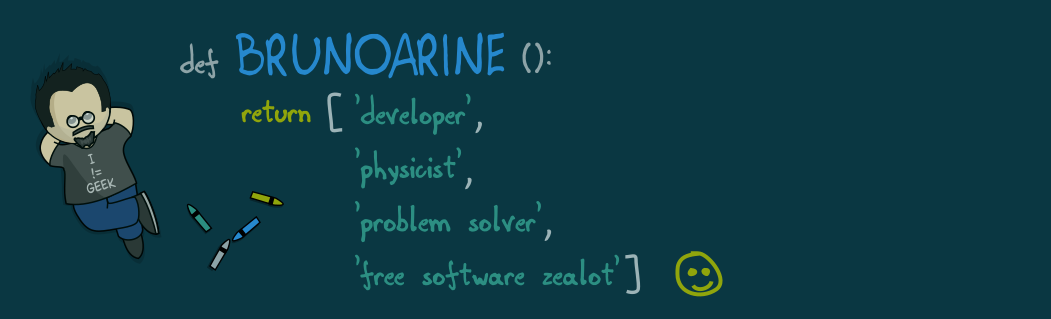
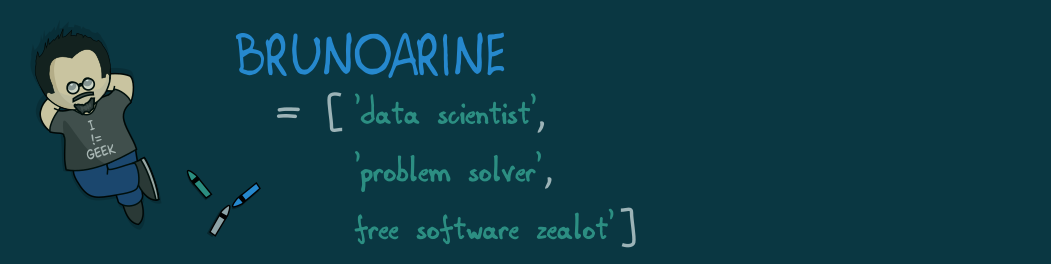
docs: Update the header image and text

diff --git a/README.md b/README.md
@@ -1,22 +1,15 @@
-### Hi, I'm Bruno 👋
-
 <img src="img/header.png">
 
-I'm a physicist by profession, a problem solver by nature, and crazy about software development.
+I'm a physicist by profession, a problem solver by nature, and crazy about data science and software development.
 
-I have ten years of experience as the lead physicist of a radiometry laboratory. During this time, I have used Python to test and develop new spectrum analysis algorithms, analyze environmental data, and improve UX with graphical tools in Qt to help my laboratory team with our routine tasks. In my master's thesis, I used machine learning tools (Scikit-learn) to improve peak detection on gamma-ray spectrometry systems.
+### Currently
 
-🎓 Working on my Software Engineering certificate   
-🌱 Currently learning Kotlin for Android apps development  
+🎓 Working on my Data Science nanodegree on [Udacity](https://www.udacity.com)
+🌱 Learning a bit of Kotlin for Android as a side project  
 📈 Looking to collaborate on development projects where I can solve problems and optimize solutions  
 🧔🏻 Pronouns: he/him  
-⚡ Fun fact: I draw a webcomic called [Nebulosa Bar](https://www.nebulosabar.com.br). I also like to photograph things, and lift heavy things.  
+⚡ Fun fact: I draw a webcomic called [Nebulosa Bar](https://www.nebulosabar.com.br). I'm also into [photography](https://www.flickr.com/photos/)soldeace) and [amateur radio](https://www.qrz.com/db/PU2YOZ)!
 
-You can find out more about me on:
+### Find me elsewhere
 
-- [My website](https://brunoarine.com)
-- [My public notes](https://notes.brunoarine.com)
-- [Linkedin](https://www.linkedin.com/in/bruno-arine)
-- [Twitter](https://twitter.com/brunoarine)
-- [Goodreads](https://www.goodreads.com/brunoarine)
-- [Instagram](https://instagram.com/brunoarine)
+[My website](https://brunoarine.com) | [My public notes](https://notes.brunoarine.com) | [Linkedin](https://www.linkedin.com/in/bruno-arine) | [Twitter](https://twitter.com/brunoarine) | [Goodreads](https://www.goodreads.com/brunoarine) | [Instagram](https://instagram.com/brunoarine)
